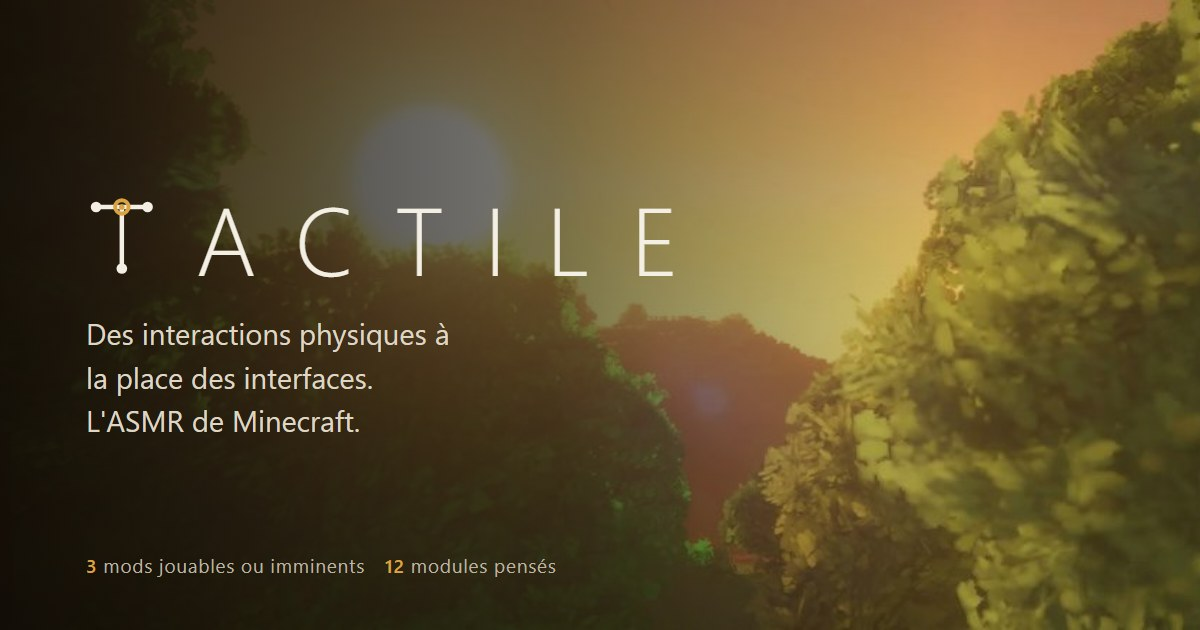
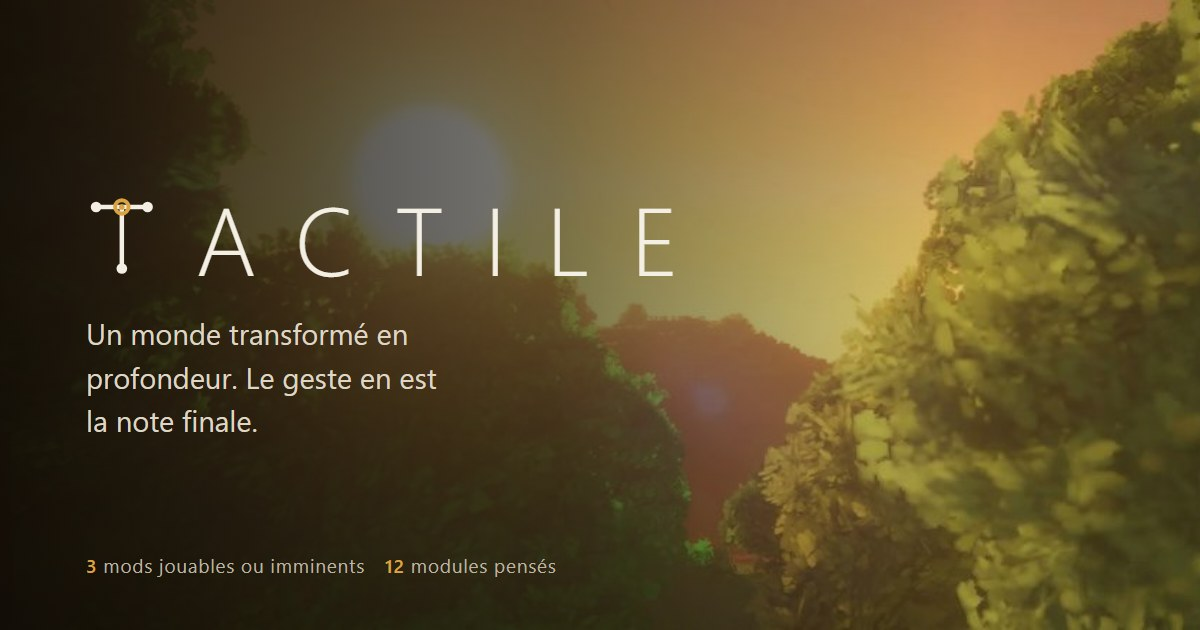
Nouvelle accroche : la suite, pas seulement l'absence de menus
L'ancienne formule décrivait Tactile:Blocks et réduisait les douze autres
modules à une variante du même geste. La suite refait le monde en
profondeur, et l'interaction en est la note finale.

Corrigé au même endroit : la bannière, la description de la page, la
description de partage, l'image de la carte de partage où la phrase était
gravée, et le README.

Changed region(s): [[0.0617, 0.5127, 0.37, 0.6937]]

diff --git a/index.html b/index.html
@@ -3,11 +3,11 @@
 <head>
 <meta charset="utf-8">
 <meta name="viewport" content="width=device-width, initial-scale=1">
-<meta name="description" content="Tactile, suite de mods Minecraft qui remplace les interfaces par des interactions physiques.">
+<meta name="description" content="Le minerai, les arbres, le climat, la faune : une suite de mods qui refond le monde de Minecraft en profondeur, jusqu'au geste.">
 <meta property="og:type" content="website">
 <meta property="og:site_name" content="Tactile">
 <meta property="og:title" content="Tactile, suite de mods Minecraft">
-<meta property="og:description" content="Des interactions physiques à la place des interfaces. L'ASMR de Minecraft.">
+<meta property="og:description" content="Ore, trees, climate, wildlife: a suite of Minecraft mods that reworks the world in depth, down to the gesture.">
 <meta property="og:url" content="https://belerion63.github.io/Tactile/">
 <meta property="og:image" content="https://belerion63.github.io/Tactile/assets/og.jpg">
 <meta property="og:image:width" content="1200">
@@ -260,7 +260,7 @@ footer .wip{font-size:11px;letter-spacing:.12em;text-transform:uppercase;color:v
   <div class="bg"></div><div class="scrim"></div>
   <div class="in">
     <h1 class="wordmark"><svg class="lettert" viewBox="-64 -72 128 144"><g fill="none" stroke="#f4efe4" stroke-width="8" stroke-linecap="round" stroke-linejoin="round"><line x1="-46" y1="-52" x2="46" y2="-52"/><line x1="0" y1="-52" x2="0" y2="58"/></g><g fill="#f4efe4"><circle cx="-46" cy="-52" r="9.5"/><circle cx="46" cy="-52" r="9.5"/><circle cx="0" cy="58" r="9.5"/></g><circle cx="0" cy="-52" r="12" fill="none" stroke="#d9a441" stroke-width="7"/><circle cx="0" cy="-52" r="5" fill="#d9a441"/></svg><span>actile</span></h1>
-    <p data-fr="Des interactions physiques à la place des interfaces. L'ASMR de Minecraft." data-en="Physical interactions instead of menus. The ASMR of Minecraft.">Physical interactions instead of menus. The ASMR of Minecraft.</p>
+    <p data-fr="Un monde transformé en profondeur. Le geste en est la note finale." data-en="A world transformed in depth. The gesture is its final note.">A world transformed in depth. The gesture is its final note.</p>
   </div>
   <div class="wm"><svg viewBox="-64 -72 128 144"><g fill="none" stroke="#f4efe4" stroke-width="8" stroke-linecap="round" stroke-linejoin="round"><line x1="-46" y1="-52" x2="46" y2="-52"/><line x1="0" y1="-52" x2="0" y2="58"/></g><g fill="#f4efe4"><circle cx="-46" cy="-52" r="9.5"/><circle cx="46" cy="-52" r="9.5"/><circle cx="0" cy="58" r="9.5"/></g><circle cx="0" cy="-52" r="12" fill="none" stroke="#d9a441" stroke-width="7"/><circle cx="0" cy="-52" r="5" fill="#d9a441"/></svg><b>Tactile</b></div>
 </section>

diff --git a/README.md b/README.md
@@ -1,7 +1,8 @@
 # Tactile — vitrine
 
-Site vitrine de la **suite Tactile**, une série de mods Minecraft qui remplacent les
-interfaces par des interactions physiques et gestuelles dans le monde.
+Site vitrine de la **suite Tactile**, une série de mods Minecraft qui refont le
+monde en profondeur : le minerai, les arbres, le climat, la faune. Le geste en
+est la note finale.
 
 Le site est un ensemble de pages HTML statiques, sans build ni dépendance :
 il est servi tel quel par GitHub Pages.
